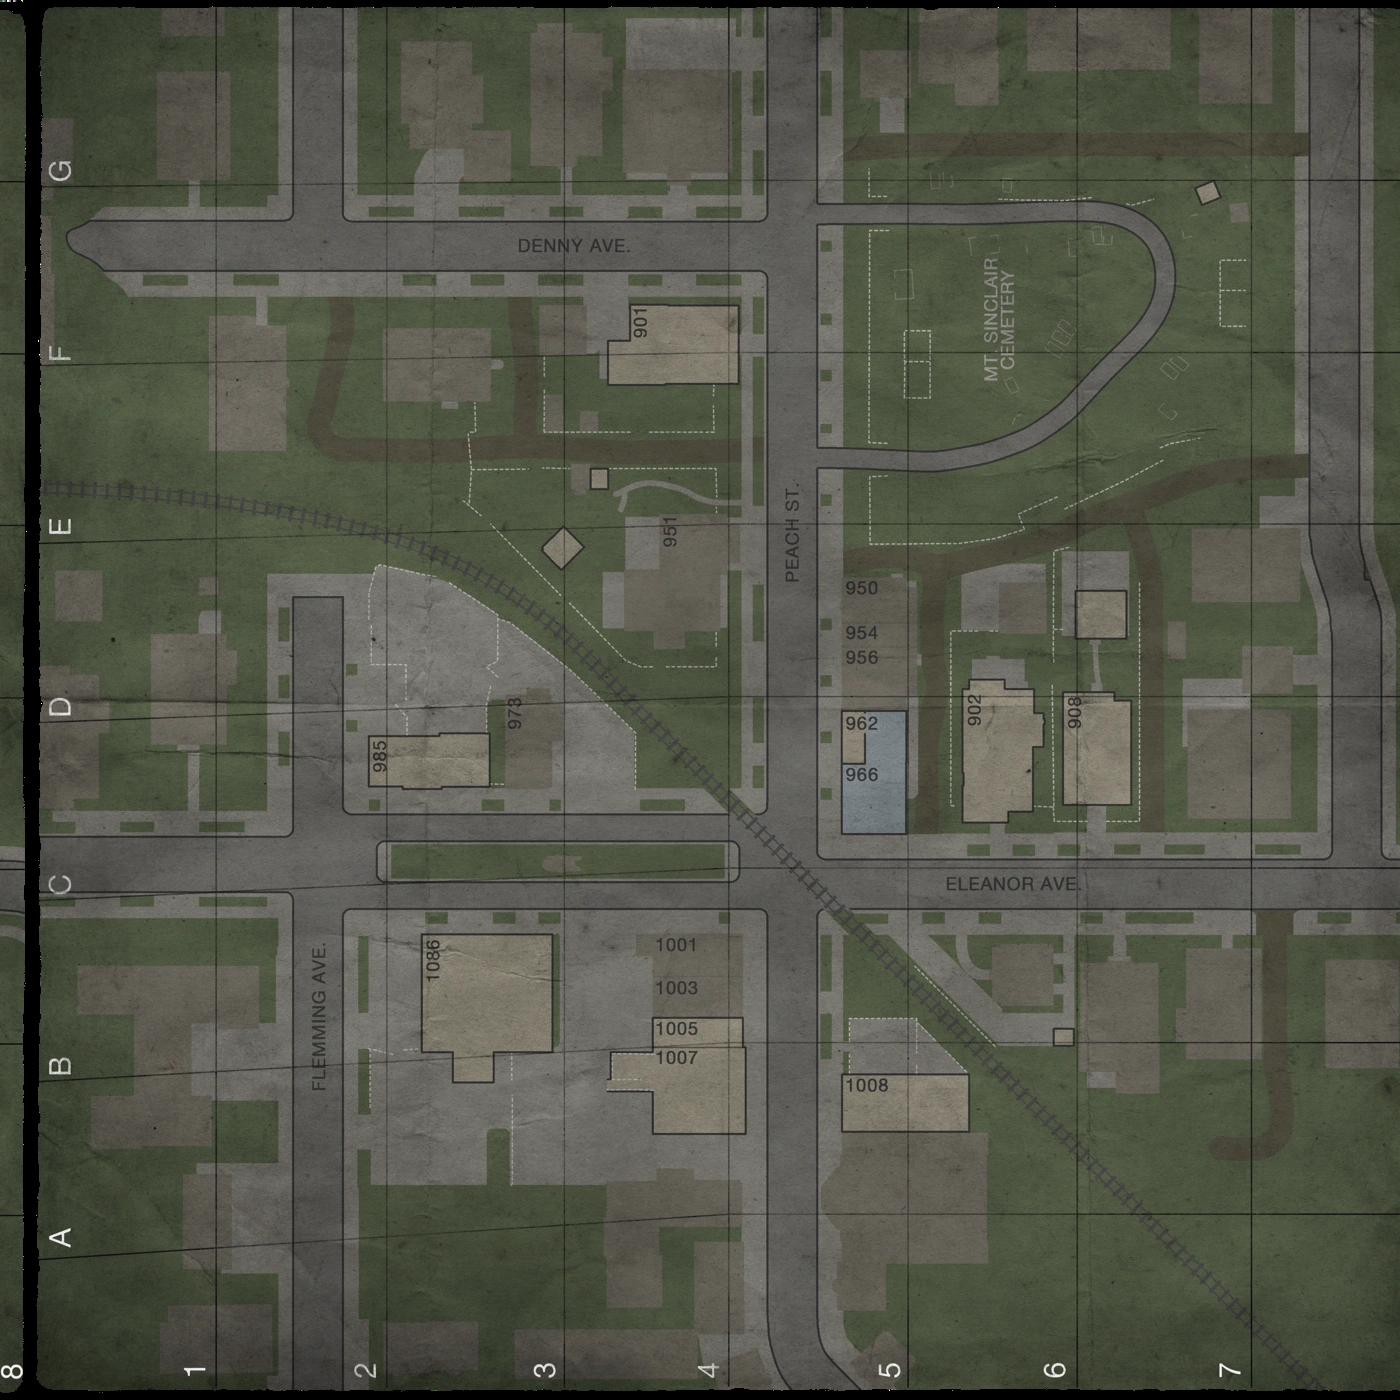
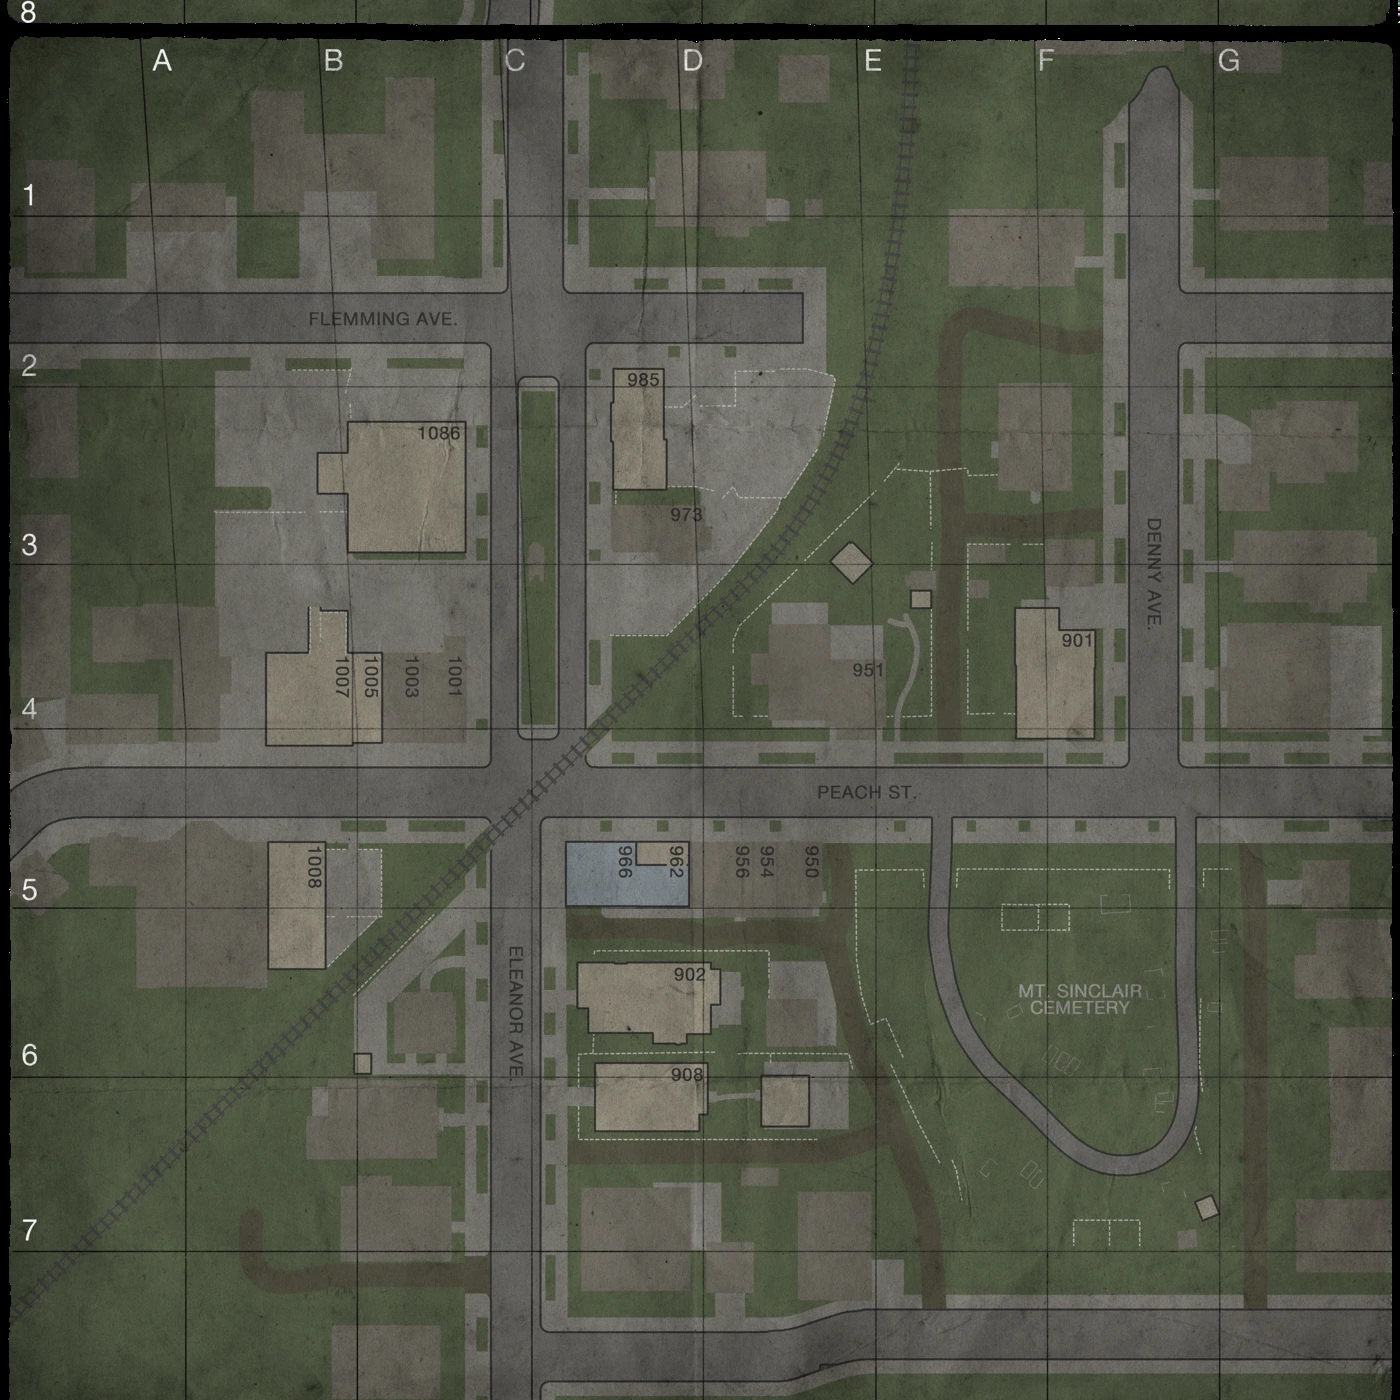
v1.3.3

diff --git a/app.js b/app.js
@@ -1,5 +1,5 @@
 /*
-Halloween Companion 1.3.2 Adaptive Install and Map Tips Update
+Halloween Companion 1.3.3 Map Orientation Correction
 Structured source edition
 
 Source map
@@ -179,14 +179,42 @@ Source map
         renderMapSearchResults();
     }
     function mapStyle() {return effectiveMapProfile().style;}
-    function styleDelta(map, style) {return (map.pixelOffset && Number(map.pixelOffset[style])) || 0;}
-    function locationPosition(point) {return {x: point.x + styleDelta(currentMap(), mapStyle()), y: point.y};}
+    function mapOrientation(map) { return map && map.orientation ? map.orientation : "rotate-cw-90"; }
+    function styleOffset(map, style) {
+        var raw = map && map.pixelOffset ? map.pixelOffset[style] : null;
+        if (raw && typeof raw === "object") {
+            return { x: Number(raw.x) || 0, y: Number(raw.y) || 0 };
+        }
+        return { x: Number(raw) || 0, y: 0 };
+    }
+    function orientedOffset(map, style) {
+        var offset = styleOffset(map, style);
+        if (mapOrientation(map) === "rotate-cw-90") {
+            return { x: -offset.y, y: offset.x };
+        }
+        return offset;
+    }
+    function locationPosition(point) {
+        var map = currentMap();
+        var offset = styleOffset(map, mapStyle());
+        var x = point.x + offset.x;
+        var y = point.y + offset.y;
+        if (mapOrientation(map) === "rotate-cw-90") {
+            return { x: map.height - y, y: x };
+        }
+        return { x: x, y: y };
+    }
+    function displayRotation(rotation) {
+        var value = Number(rotation) || 0;
+        return mapOrientation(currentMap()) === "rotate-cw-90" ? value + 90 : value;
+    }
     function switchMapStyle(style) {
         if (style !== "realistic" && style !== "paper" || style === mapStyle()) return;
-        var before = styleDelta(currentMap(), mapStyle());
+        var before = orientedOffset(currentMap(), mapStyle());
         updateMapProfile(function (p) { p.style = style; });
-        var after = styleDelta(currentMap(), style);
-        state.tx -= (after - before) * state.scale;
+        var after = orientedOffset(currentMap(), style);
+        state.tx -= (after.x - before.x) * state.scale;
+        state.ty -= (after.y - before.y) * state.scale;
         mapImage.src = currentMap().styles[style];
         mapImage.alt = currentMap().name + " " + style + " map";
         syncOverlayVisibility();
@@ -460,7 +488,7 @@ Source map
             var p=locationPosition(entry.item);
             entry.element.style.left = state.tx + p.x * state.scale + "px";
             entry.element.style.top = state.ty + p.y * state.scale + "px";
-            entry.element.style.transform = "translate(-50%, -50%) rotate(" + (entry.item.rotation || 0) + "deg)";
+            entry.element.style.transform = "translate(-50%, -50%) rotate(" + displayRotation(entry.item.rotation) + "deg)";
         });
     }
 

diff --git a/index.html b/index.html
@@ -2,7 +2,7 @@
 <html lang="en">
 <head>
 <!--
-Halloween Companion 1.3.2 Adaptive Install and Map Tips Update
+Halloween Companion 1.3.3 Map Orientation Correction
 Structured source edition
 
 Source map
@@ -286,7 +286,7 @@ only change intentionally. Core runtime files remain external to product source.
                     <section class="settings-card">
                         <h3>About</h3>
                         <p class="settings-credit">App created by <a href="https://linktr.ee/MWHQ" target="_blank" rel="noopener noreferrer">p8riot</a> using his p8Core App Builder</p>
-                        <p class="settings-app-version">Version <strong>1.3.2</strong></p>
+                        <p class="settings-app-version">Version <strong>1.3.3</strong></p>
                     </section>
                 </div>
             </div>

diff --git a/sw.js b/sw.js
@@ -10,7 +10,7 @@ SW-03  Fetch strategy
 // ============================================================================
 // [SW-01] CACHE IDENTITY + APP SHELL
 // ============================================================================
-const CACHE_NAME = "halloween-escape-map-v1.3.2-install-map-tips";
+const CACHE_NAME = "halloween-escape-map-v1.3.3-map-orientation";
 const APP_SHELL = [
     "./",
     "./index.html",

diff --git a/app-config.js b/app-config.js
@@ -3,7 +3,7 @@
 window.p8riotAppConfig = {
     name: "Halloween: The Game Companion App",
     shortName: "Halloween Companion",
-    version: "1.3.2",
+    version: "1.3.3",
     coreVersion: "0.2.0",
     modules: {
         storage: true,
